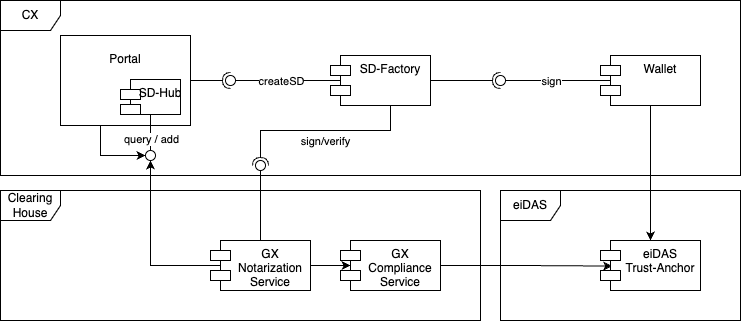
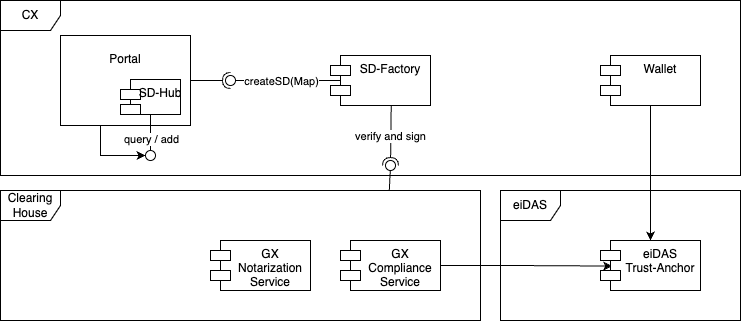
documentation update

diff --git a/docs/ARC42.md b/docs/ARC42.md
@@ -116,7 +116,7 @@ GAIA-X will also provide a service to proof for compliant self descriptions
 ## System Scope and Context
 
 The Portal provides the necessary information to the SD Factory in plain text format via
-API. SD-Factory creates the Jason-LD document signed by the wallet and provides it to the 
+API. SD-Factory creates the JSON-LD document and provides it to the 
 Compliance Service. After processing, Compliance Service sends Self-Description back to the Portal.
 
 ## Business Context
@@ -256,16 +256,14 @@ Verifiable Credentials for LegalParticipant:
 {
   "@context": [
     "https://www.w3.org/2018/credentials/v1",
-    "https://github.com/catenax-ng/tx-sd-factory/raw/1.0.6-converter/src/main/resources/verifiablecredentials/sd-document-v2210",
-    "https://w3id.org/vc/status-list/2021/v1"
+    "https://f1c82785-5598-41c7-a083-01a8e1a80e19.mock.pstmn.io/ctxsd"
   ],
   "type": [
-    "VerifiableCredential",
-    "LegalParticipant"
+    "VerifiableCredential"
   ],
-  "issuer": "did:sov:XAZ71Ypzh3Da6Yzi1kjgZs",
-  "issuanceDate": "2023-01-25T13:52:48Z",
-  "expirationDate": "2023-04-25T13:52:48Z",
+  "id": "5096f9c2-24fd-43c5-9d50-e43a409ebb33",
+  "issuanceDate": "2023-07-26T17:07:31Z",
+  "expirationDate": "2023-10-24T17:07:31Z",
   "credentialSubject": {
     "bpn": "BPNL000000000000",
     "registrationNumber": [
@@ -280,23 +278,9 @@ Verifiable Credentials for LegalParticipant:
     "type": "LegalParticipant",
     "legalAddress": {
       "countryCode": "DE"
-    },
-    "id": "did:sov:2xcjN7LjnHGaPdZbbGqju5"
+    }
   },
-  "credentialStatus": {
-    "id": "https://managed-identity-wallets.int.demo.catena-x.net/api/credentials/status/7338ff60-dc18-47e2-9021-029e7db70bb2#36",
-    "type": "StatusList2021Entry",
-    "statusPurpose": "revocation",
-    "statusListIndex": "36",
-    "statusListCredential": "https://managed-identity-wallets.int.demo.catena-x.net/api/credentials/status/7338ff60-dc18-47e2-9021-029e7db70bb2"
-  },
-  "proof": {
-    "type": "Ed25519Signature2018",
-    "created": "2023-01-25T13:52:49Z",
-    "proofPurpose": "assertionMethod",
-    "verificationMethod": "did:sov:XAZ71Ypzh3Da6Yzi1kjgZs#key-1",
-    "jws": "eyJhbGciOiAiRWREU0EiLCAiYjY0IjogZmFsc2UsICJjcml0IjogWyJiNjQiXX0..rdRVga4MQ-M_t2baOyo--FxaSHm9xPzxJ4QkUW53HMxD9E783WWtkfT4Oo8FYc7AYv5fpXrEiwIeCUrTFhgbDw"
-  }
+  "issuer": "CAXSDUMMYCATENAZZ"
 }
 ```    
 
@@ -338,18 +322,15 @@ Responses:
 
 ```mermaid
 sequenceDiagram
-	actor User
-	User-->>Identity Provider: authentication
-	User->>Onboarding Service: participant data
-	Onboarding Service-->>Identity Provider: technical user
-	Onboarding Service->>+SDFactory: SD-document 
-    SDFactory-->>Identity Provider: technical user to acees the Wallet
-    SDFactory->>+Managed Identity Wallet: Verifiable Credential
-    Managed Identity Wallet->>+SDFactory: Signed Verifiable Credential
-    SDFactory->>+Compliance Service: Signed Verifiable Credential
+    actor User
+    User-->>Identity Provider: authentication
+    User->>Onboarding Service: participant data
+    Onboarding Service-->>Identity Provider: technical user
+    Onboarding Service->>+SDFactory: SD-document
+    SDFactory-->>Identity Provider: technical user to access Compliance Service
+    SDFactory->>+Compliance Service: Unsigned Verifiable Credential
     Compliance Service->>Compliance Service: asynchronous processing
     Compliance Service->>+Onboarding Service: Signed Verifiable Credential
-	
 ```
 
 Here the flow of Self-Description creation is shown:
@@ -359,25 +340,21 @@ Here the flow of Self-Description creation is shown:
 2. User calls On-boarding Service with request for creating and publishing
    SD-document. The service authenticates the user and prepare the data
    SD-Factory needs for creating SD-document. SDFactory takes document in a format,
-   specified in [Catena-X Confluence](https://confluence.catena-x.net/display/CORE/Self+Description+Interface)]
-   and convert it to [Trust Framework V.22.10]. Currently, these documents are supported by SD-Factory:
+   specified in OpenAPI document [Pre-22.4 schema, AKA 1.06]  and convert it to
+   [Trust Framework V.22.10]. Currently, these documents are supported by SD-Factory:
     - LegalParticipant;
     - ServiceOffering;
-      **Organization wallet of the company which runs the service shall
-      be available at this point of time as it signs the Verifiable Credential
-      with SD document. The wallet associated with the service shall be available
-      as well.**
 3. On-boarding service (OS) calls SD-Factory for creating SD-document passing this
    data as a parameter. OS uses a credential with a role allowing for this request
    (e.g. `add_self_descriptions`, the default role for SD-document creation). The
-   credential for this operation is taken from Identity Provider (keyclock).
+   credential for this operation is taken from Identity Provider (keycloak).
 4. SD-Factory creates a Verifiable Credential based on the information taken from
-   OS and signs it with organization key. The organization is acting as an Issuer.
-   The wallet ID of the service is used as Holder Id. The Custodian Wallet is used
-   for this operation.
-5. SD-Factory sends signed Verifiable Credential to the Compliance Service for further (asynchronous) processing.
-   In the end the Compliance Service sends Self-Description document back to the On-boarding service endpoint.
-   OS is responsible for storing and publishing it.
+   On-boarding Service
+5. SD-Factory sends unsigned Verifiable Credential to the Compliance Service for further
+   (asynchronous) processing. Compliance Service is responsible for verification of the VC
+   and signing. In the end the Compliance Service sends Self-Description
+   document back to the On-boarding service endpoint. OS is responsible for storing and
+   publishing it.
 
 ## Deployment View
 

diff --git a/README.md b/README.md
@@ -30,13 +30,10 @@ sequenceDiagram
 	User->>Onboarding Service: participant data
 	Onboarding Service-->>Identity Provider: technical user
 	Onboarding Service->>+SDFactory: SD-document 
-    SDFactory-->>Identity Provider: technical user to acees the Wallet
-    SDFactory->>+Managed Identity Wallet: Verifiable Credential
-    Managed Identity Wallet->>+SDFactory: Signed Verifiable Credential
-    SDFactory->>+Compliance Service: Signed Verifiable Credential
+    SDFactory-->>Identity Provider: technical user to access Compliance Service
+    SDFactory->>+Compliance Service: Unsigned Verifiable Credential
     Compliance Service->>Compliance Service: asynchronous processing
     Compliance Service->>+Onboarding Service: Signed Verifiable Credential
-	
 ```
 
 1. A user is authenticated in Identity Provider service on behalf of a company
@@ -48,19 +45,15 @@ sequenceDiagram
    [Trust Framework V.22.10]. Currently, these documents are supported by SD-Factory:
     - LegalParticipant;
     - ServiceOffering;
-   **Organization wallet of the company running the service shall
-   be available at this point of time as it signs the Verifiable Credential
-   with SD document. The wallet associated with the service shall be available
-   as well.**
 3. On-boarding service (OS) calls SD-Factory for creating SD-document passing this
    data as a parameter. OS uses a credential with a role allowing for this request
    (e.g. `add_self_descriptions`, the default role for SD-document creation). The
    credential for this operation is taken from Identity Provider (keycloak).
 4. SD-Factory creates a Verifiable Credential based on the information taken from
-   OS and passes it to the Custodian Wallet to be signed with organization key. The 
-   organization is acting as an Issuer. The wallet ID of the service is used as a Holder.
-5. SD-Factory sends signed Verifiable Credential to the Compliance Service for further 
-   (asynchronous) processing. In the end the Compliance Service sends Self-Description 
+   On-boarding Service
+5. SD-Factory sends unsigned Verifiable Credential to the Compliance Service for further 
+   (asynchronous) processing. Compliance Service is responsible for verification of the VC 
+   and signing. In the end the Compliance Service sends Self-Description 
    document back to the On-boarding service endpoint. OS is responsible for storing and 
    publishing it. 
 
@@ -108,49 +101,33 @@ Verifiable Credentials for LegalParticipant:
 
 ```json
 {
-  "@context": [
-    "https://www.w3.org/2018/credentials/v1",
-    "https://raw.githubusercontent.com/eclipse-tractusx/sd-factory/main/src/main/resources/verifiablecredentials/sd-document-v2210",
-    "https://w3id.org/vc/status-list/2021/v1"
-  ],
-  "type": [
-    "VerifiableCredential",
-    "LegalParticipant"
-  ],
-  "issuer": "did:sov:XAZ71Ypzh3Da6Yzi1kjgZs",
-  "issuanceDate": "2023-01-25T13:52:48Z",
-  "expirationDate": "2023-04-25T13:52:48Z",
-  "credentialSubject": {
-    "bpn": "BPNL000000000000",
-    "registrationNumber": [
-      {
-        "type": "local",
-        "value": "o12345678"
+   "@context": [
+      "https://www.w3.org/2018/credentials/v1",
+      "https://f1c82785-5598-41c7-a083-01a8e1a80e19.mock.pstmn.io/ctxsd"
+   ],
+   "type": [
+      "VerifiableCredential"
+   ],
+   "id": "5096f9c2-24fd-43c5-9d50-e43a409ebb33",
+   "issuanceDate": "2023-07-26T17:07:31Z",
+   "expirationDate": "2023-10-24T17:07:31Z",
+   "credentialSubject": {
+      "bpn": "BPNL000000000000",
+      "registrationNumber": [
+         {
+            "type": "local",
+            "value": "o12345678"
+         }
+      ],
+      "headquarterAddress": {
+         "countryCode": "DE"
+      },
+      "type": "LegalParticipant",
+      "legalAddress": {
+         "countryCode": "DE"
       }
-    ],
-    "headquarterAddress": {
-      "countryCode": "DE"
-    },
-    "type": "LegalParticipant",
-    "legalAddress": {
-      "countryCode": "DE"
-    },
-    "id": "did:sov:2xcjN7LjnHGaPdZbbGqju5"
-  },
-  "credentialStatus": {
-    "id": "https://managed-identity-wallets.int.demo.catena-x.net/api/credentials/status/7338ff60-dc18-47e2-9021-029e7db70bb2#36",
-    "type": "StatusList2021Entry",
-    "statusPurpose": "revocation",
-    "statusListIndex": "36",
-    "statusListCredential": "https://managed-identity-wallets.int.demo.catena-x.net/api/credentials/status/7338ff60-dc18-47e2-9021-029e7db70bb2"
-  },
-  "proof": {
-    "type": "Ed25519Signature2018",
-    "created": "2023-01-25T13:52:49Z",
-    "proofPurpose": "assertionMethod",
-    "verificationMethod": "did:sov:XAZ71Ypzh3Da6Yzi1kjgZs#key-1",
-    "jws": "eyJhbGciOiAiRWREU0EiLCAiYjY0IjogZmFsc2UsICJjcml0IjogWyJiNjQiXX0..rdRVga4MQ-M_t2baOyo--FxaSHm9xPzxJ4QkUW53HMxD9E783WWtkfT4Oo8FYc7AYv5fpXrEiwIeCUrTFhgbDw"
-  }
+   },
+   "issuer": "CAXSDUMMYCATENAZZ"
 }
 ```
 
